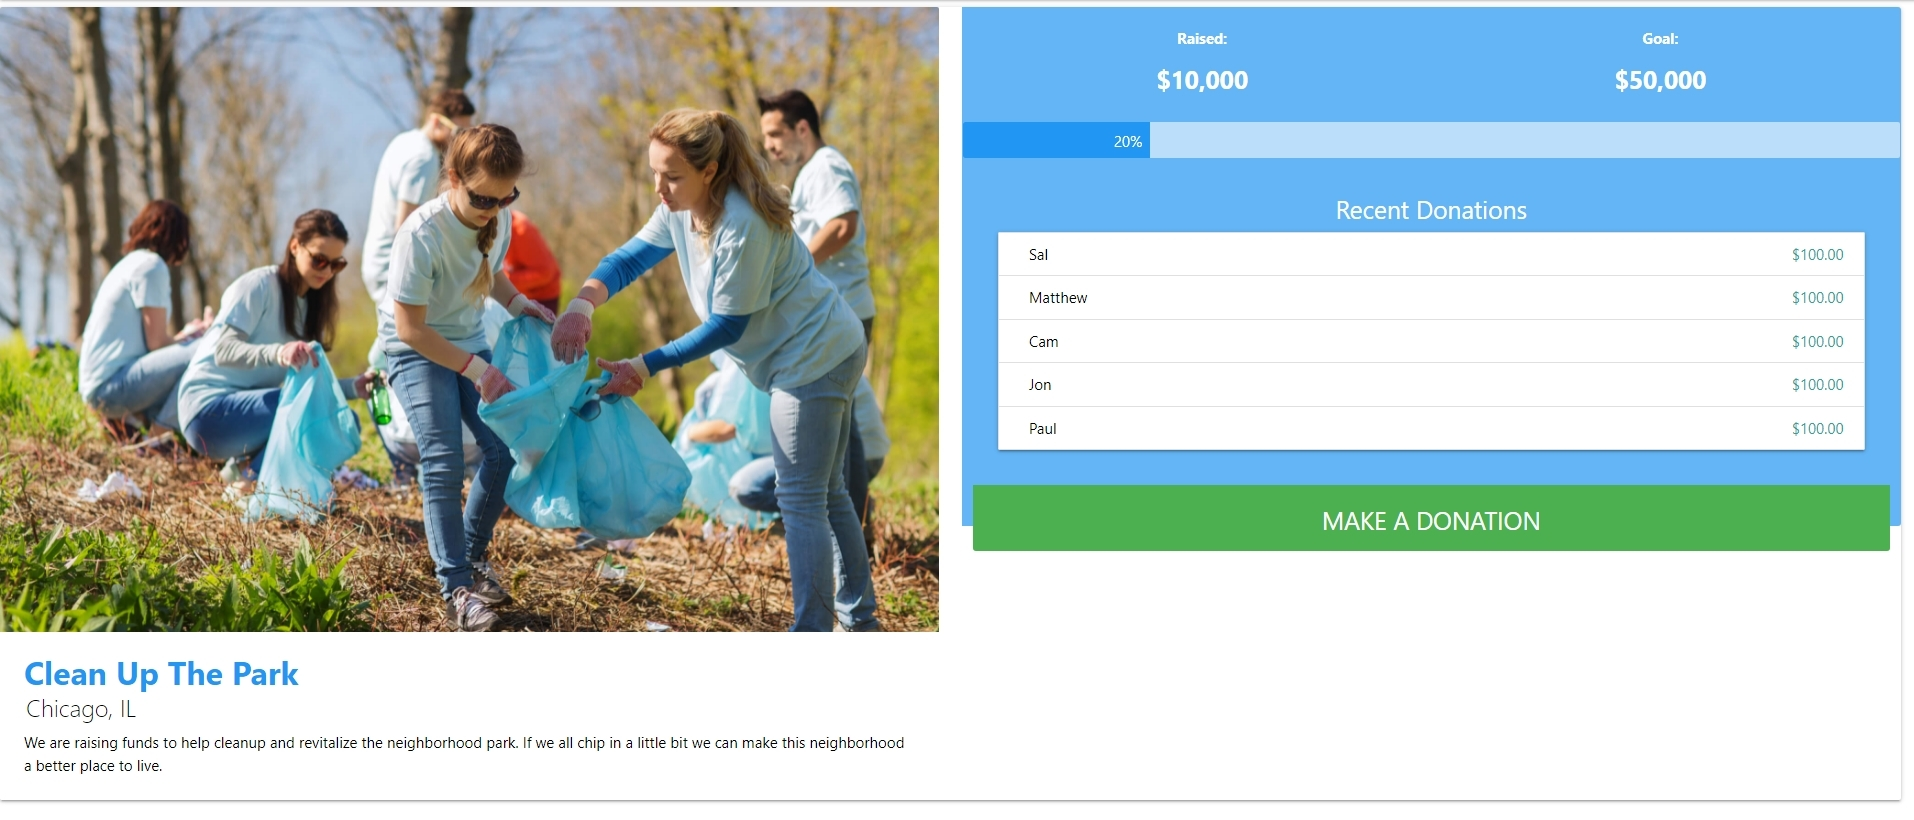
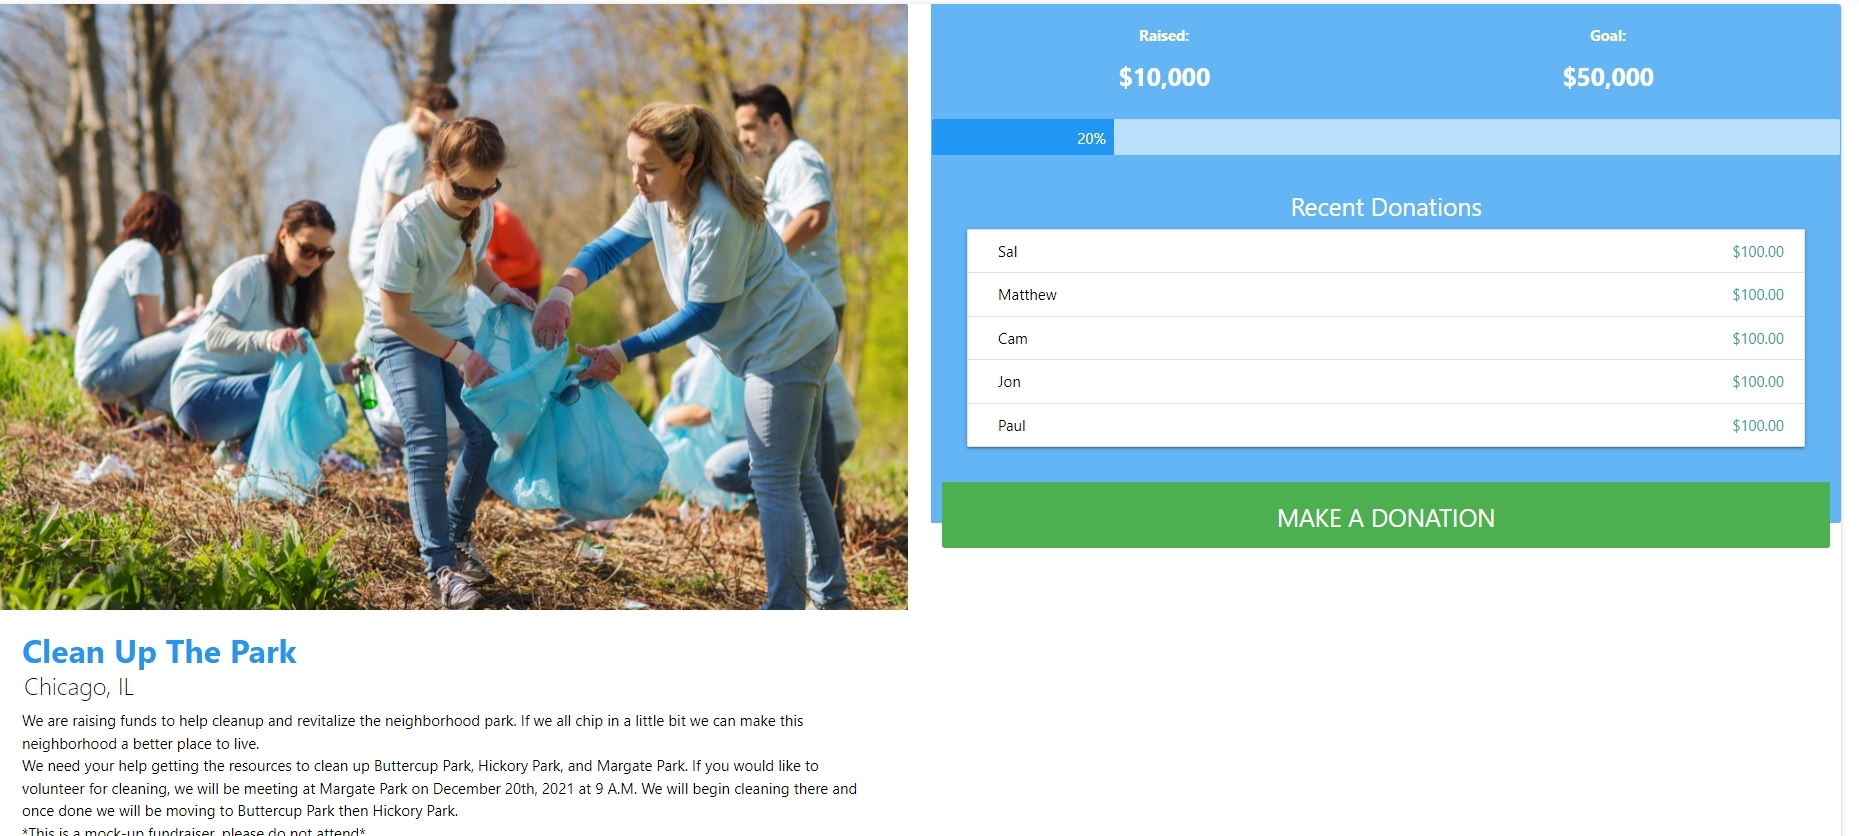
fixed readme grammar, added additional text to info card

diff --git a/client/src/components/FundraiserInfoCard/FundraiserInfoCard.js b/client/src/components/FundraiserInfoCard/FundraiserInfoCard.js
@@ -24,11 +24,15 @@ function FundraiserInfoCard(props) {
                                     {/* <!-- this is the fundraiser location section --> */}
                                     <span className="card-title fundraiser-card-subtitle">Chicago, IL</span>
                                     {/* <!-- this is the fundraiser description section --> */}
-                                    <p id="fundraiser-card-description">We are raising funds to help cleanup and
-                                        revitalize
-                                        the neighborhood park. If we all chip in a little bit we can make this
-                                        neighborhood
-                                        a better place to live.</p>
+                                    <p id="fundraiser-card-description">
+                                        We are raising funds to help cleanup and revitalize the neighborhood park. If we all chip in a little bit we can make this neighborhood a better place to live.
+                                    </p>
+                                    <p>
+                                        We need your help getting the resources to clean up Buttercup Park, Hickory Park, and Margate Park. If you would like to volunteer for cleaning, we will be meeting at Margate Park on December 20th, 2021 at 9 A.M. We will begin cleaning there and once done we will be moving to Buttercup Park then Hickory Park.
+                                    </p>
+                                    <p>
+                                        *This is a mock-up fundraiser, please do not attend*
+                                    </p>
                                 </div>
                             </div>
 

diff --git a/client/src/components/FundraiserCard/FundraiserCard.js b/client/src/components/FundraiserCard/FundraiserCard.js
@@ -120,7 +120,7 @@ function FundraiserCard(props) {
                         <span className="card-title fundraiser-card-subtitle">Globally</span>
                         {/* <!-- this is the fundraiser description section --> */}
                         <p className="fundraiser-card-description" id="fundraiser-card-description">
-                            $1 plants a tree. YouTubers MrBeast and Mark Robert millions state #TeamTrees to planet trees all over the world. Click the card to get the latest info on #TeamTrees latest projects.
+                            $1 plants a tree. YouTubers MrBeast and Mark Robert start #TeamTrees to planet trees all over the world. Click the card to get the latest info on #TeamTrees latest projects.
                         </p>
 
                         {/* <!-- this is the fundraiser progress bar section --> */}

diff --git a/client/src/components/FundraiserInfoCard/FundraiserInfoCard.css b/client/src/components/FundraiserInfoCard/FundraiserInfoCard.css
@@ -177,5 +177,5 @@
 }
 
 .fundraiser-info-card{
-    width: 99vw;
+    width: 96vw;
 }

diff --git a/README.md b/README.md
@@ -50,9 +50,15 @@ Bcrypt
 JSON Web Token
 
 ## Usage
-You can use the deployed Heroku link above.
+Run 'npm run develop' in your terminal to use via localhost
+
+or
+
+Use the deployed Heroku link above
 
 Upon visiting the website, you can sign up or login if you're a returning user via the dropdown button on the navbar.
+
+![login and signup pages](./assets/images/loginSignup.gif)
 
 On the homepage you will see two different types of fundraisers. 
 
@@ -60,7 +66,7 @@ The first type of fundraiser you'll see are fundraisers made via our app. This i
 
 ![fundraiser card example](./assets/images/readme1.jpg)
 
-You can see the title of the fundraiser, where it'll take place, the donation goal, and a donate button. The card as a whole is clickable and will redirect you to a page with just the fundraiser.
+You can see the title of the fundraiser, where it'll take place, the donation goal, and a donate button. The card as a whole is clickable and will redirect you to a page with more information on the fundraiser.
 
 ![fundraiser info example](./assets/images/readme2.jpg)
 
@@ -70,15 +76,15 @@ Here you can see the same details, but you can also see the recent donators. Upo
 
 You'll declare how much you would like to donate in the text field labelled "$ Amount". After declaring the amount you would like to donate, you can click on the donate button to donate, or if you change your mind, you can click on the cancel button to be redirect to the homepage.
 
-The second type of fundraisers on our app are well known fundraisers or charities that we ourselves believe are doing good for the world. They have the same display as the other fundraisers. 
+The second type of fundraisers on our app are large-scale, non-profit fundraisers or charities that we ourselves believe are doing good for the world. They have the same display as fundraisers created on our page. 
 
 ![well known fundraiser #TeamSeas](./assets/images/readme4.png)
 
-The difference between this type of fundraiser and ones created on our website is that clicking on the card or the donate button on these will redirect you to the official website of the fundraiser. 
+The difference between these fundraisers and ones created on our website is that clicking on the card or the donate button on these will redirect you to the official website of the fundraiser. 
 
 ![#TeamSeas official website](./assets/images/readme5.png)
 
-To create a fundraiser on our app, on the top right side of the navbar there is a "Create a Fundraiser" nav item that will redirect you to a form to create a fundraiser. 
+To create a fundraiser on our app, on the right side of the navbar there is a "Create a Fundraiser" option that will redirect you to a form to create a fundraiser. 
 
 ![Create a Fundraiser on nav](./assets/images/readme6.png)
 
@@ -89,7 +95,7 @@ All you have to do is fill out the information and click create. This will redir
 (App is not yet fully functional)
 
 ## License
-[![License: ISC](https://img.shields.io/badge/License-ISC-yellow.svg)](https://opensource.org/licenses/ISC)
+[![License: MIT](https://img.shields.io/badge/License-MIT-yellow.svg)](https://opensource.org/licenses/MIT)
 
 ## Contact
 Matthew Nguyen:
